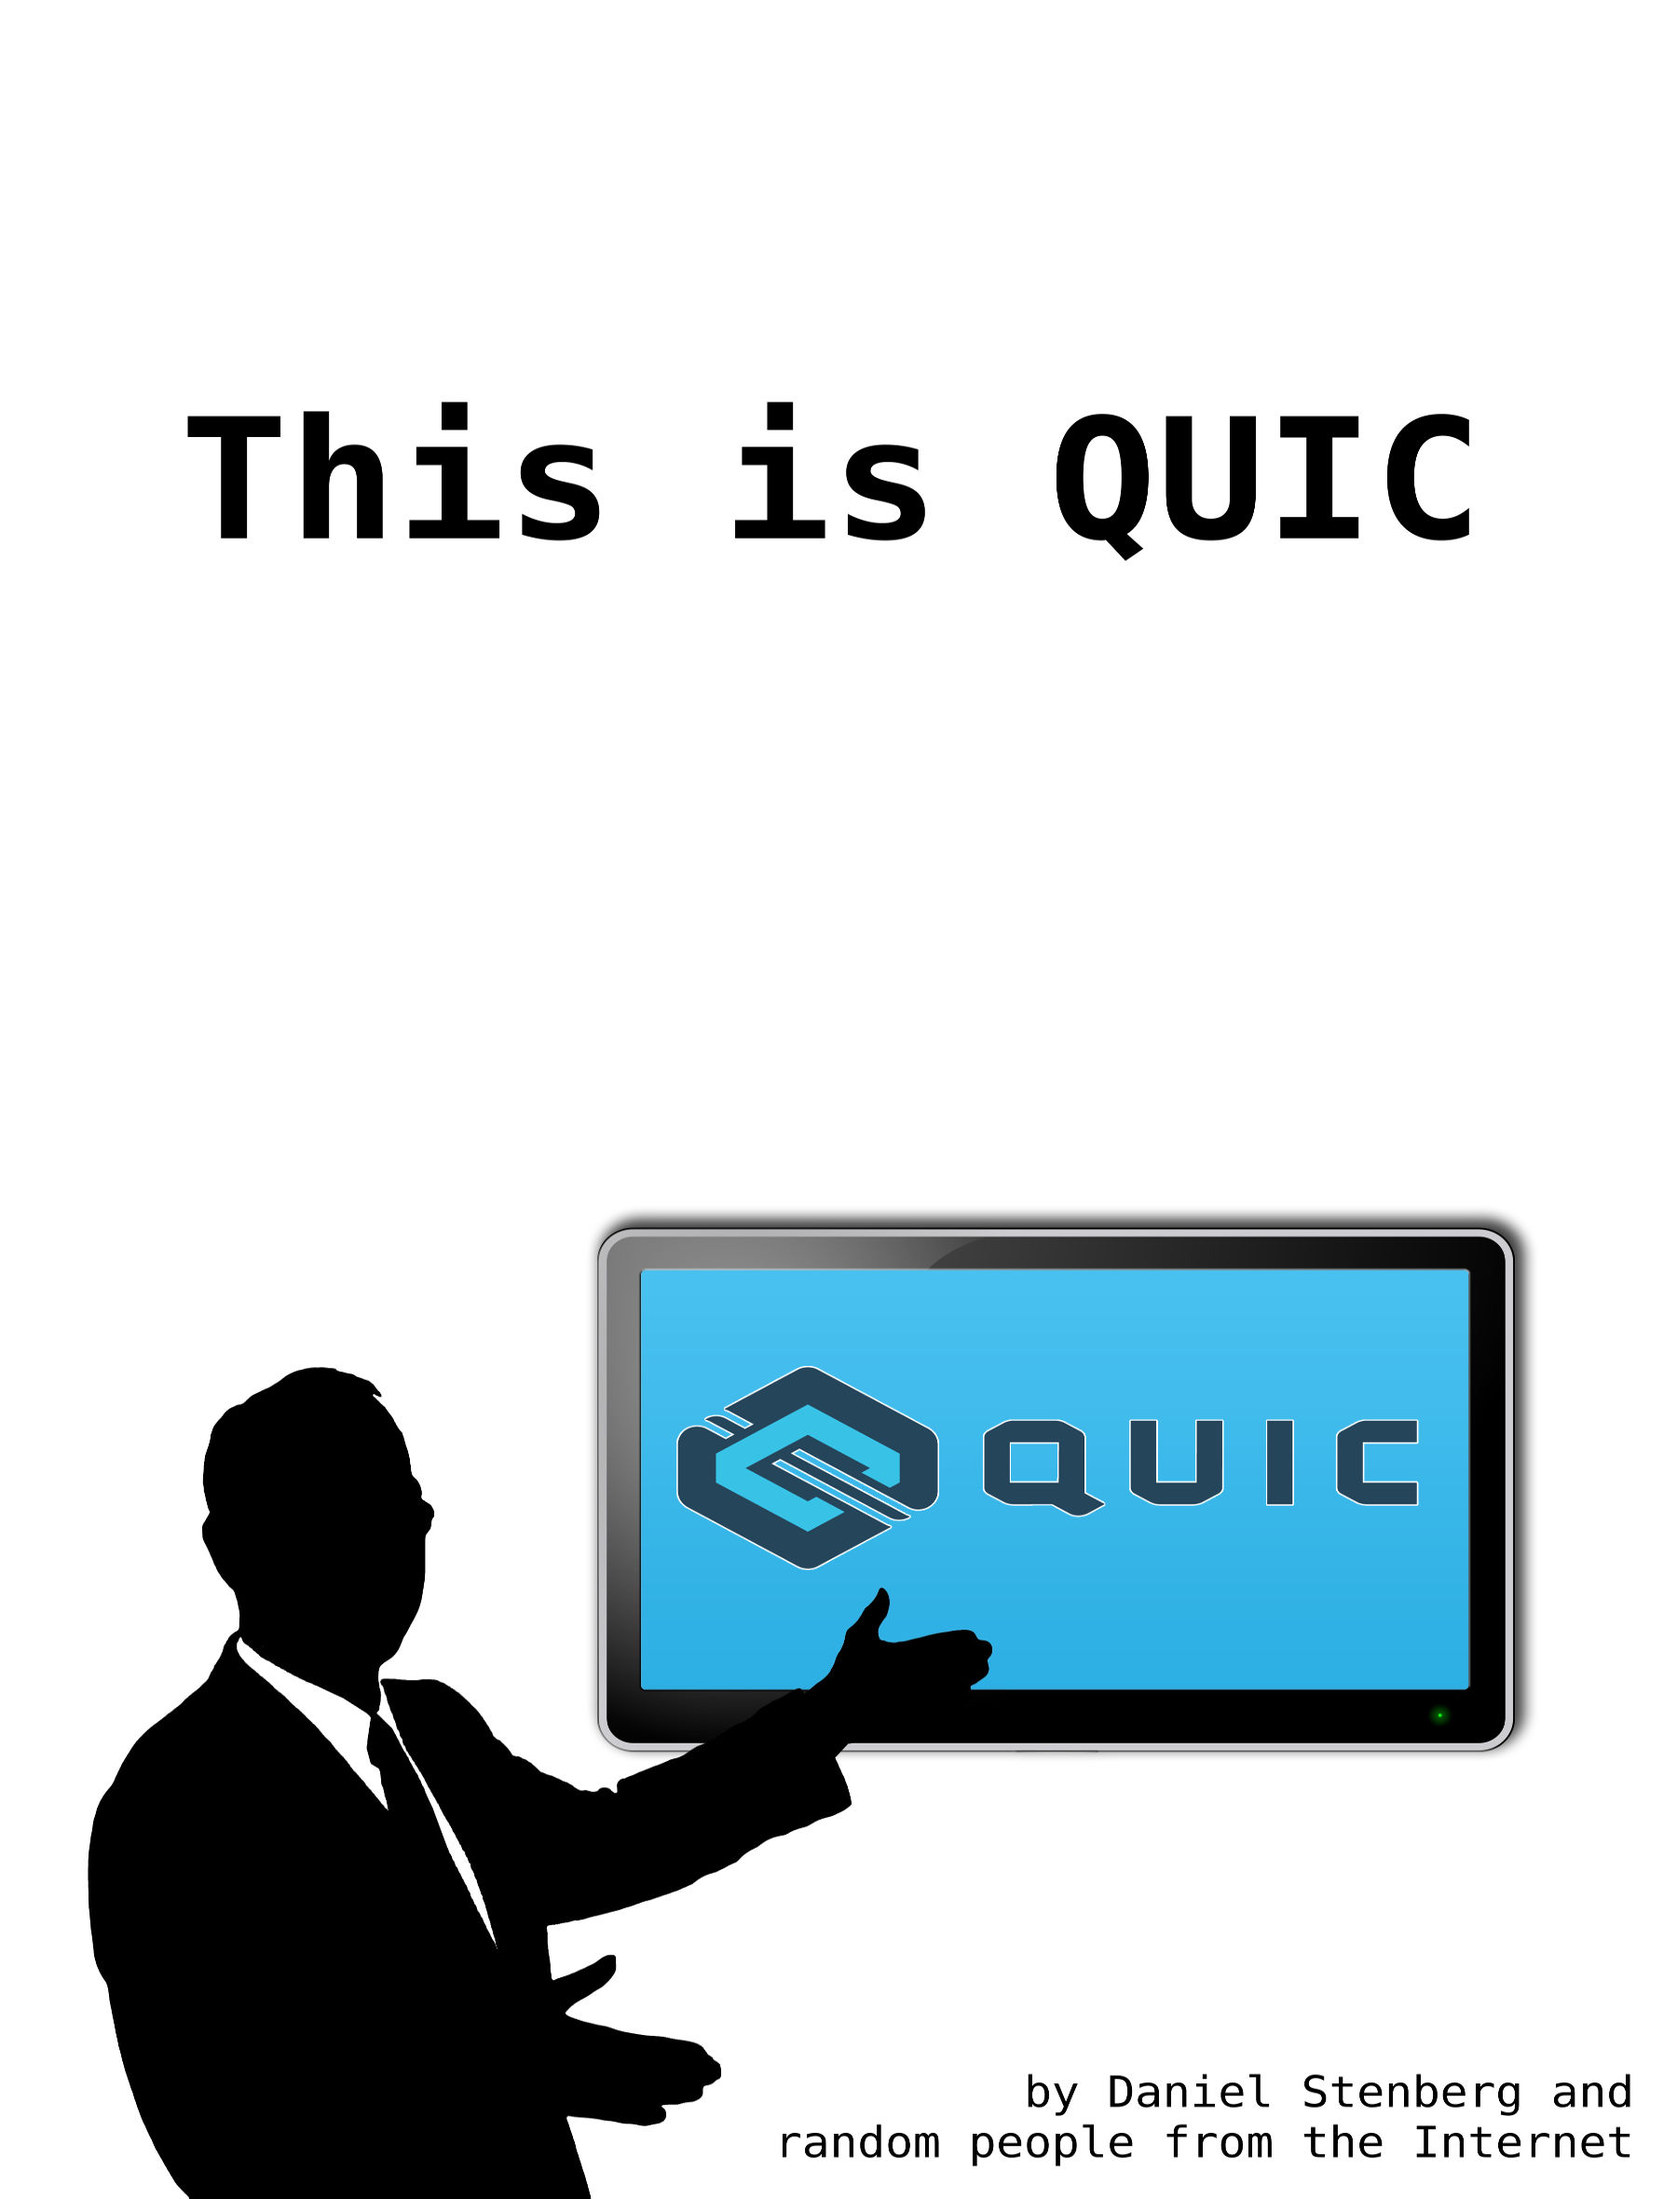
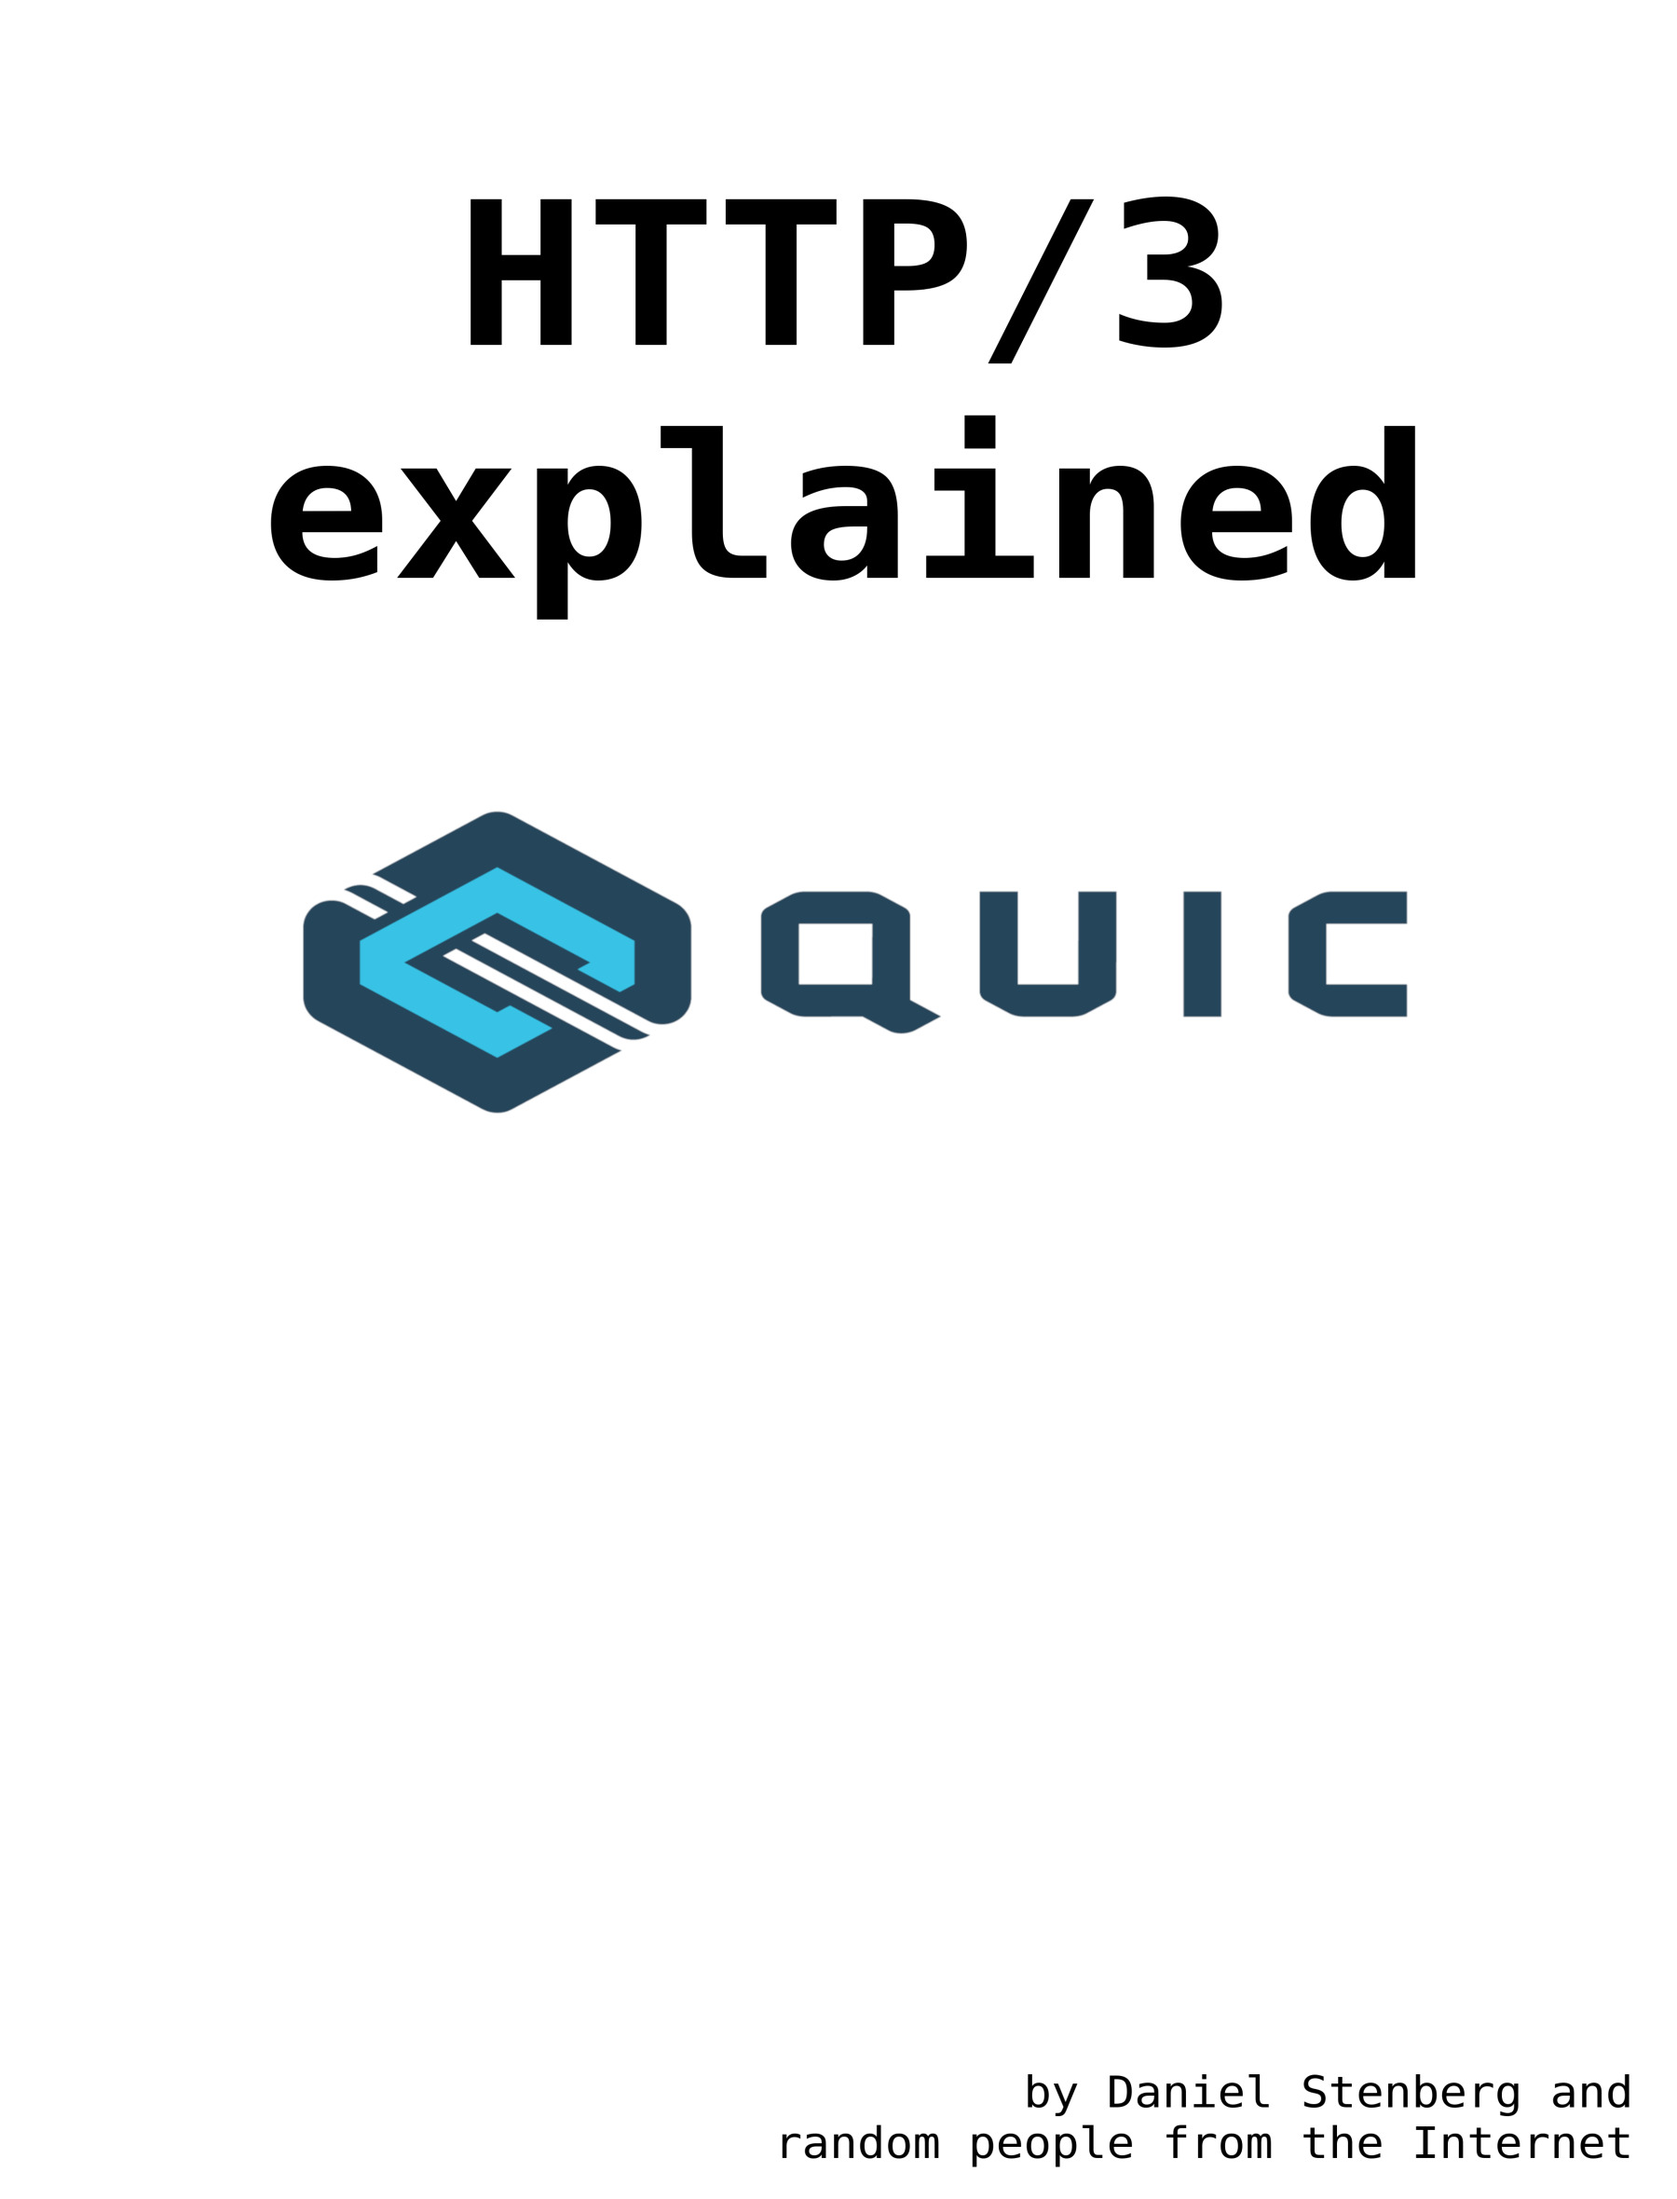
renamed to HTTP/3 explained
Fixes #3

diff --git a/README.md b/README.md
@@ -1,5 +1,5 @@
-**This is QUIC** is a collborative effort to document the QUIC protocol. Join
-in and help!
+**HTTP/3 explained** is a collborative effort to document the HTTP/3 and the
+QUIC protocols. Join in and help!
 
 Get the Web, PDF, or e-book versions on
 [gitbook.com](https://www.gitbook.com/book/bagder/this-is-quic/details).
